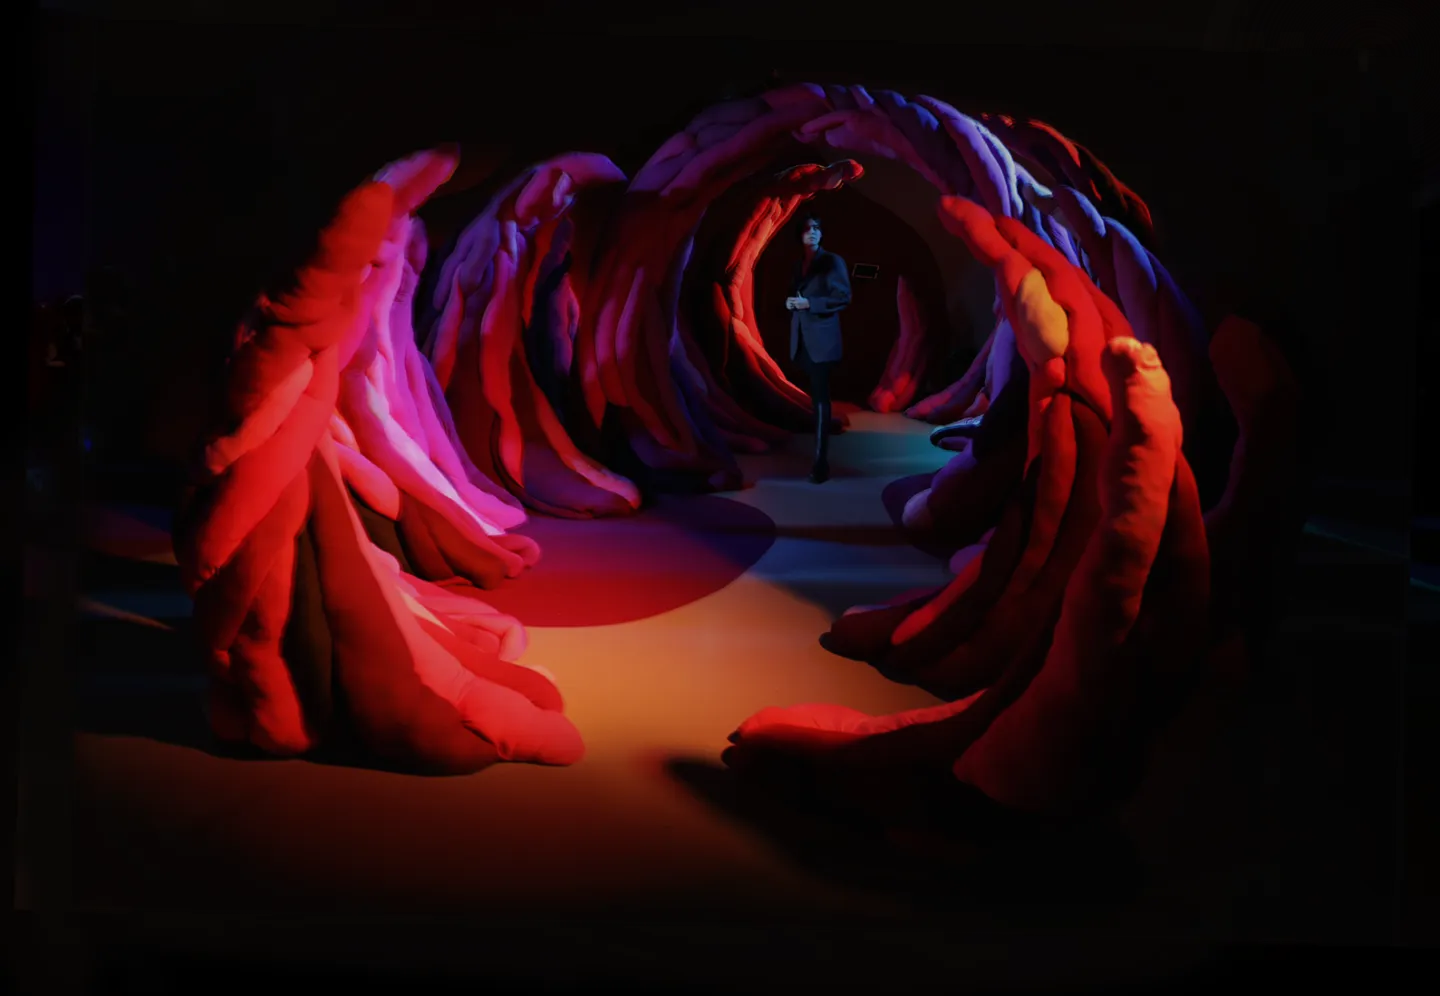
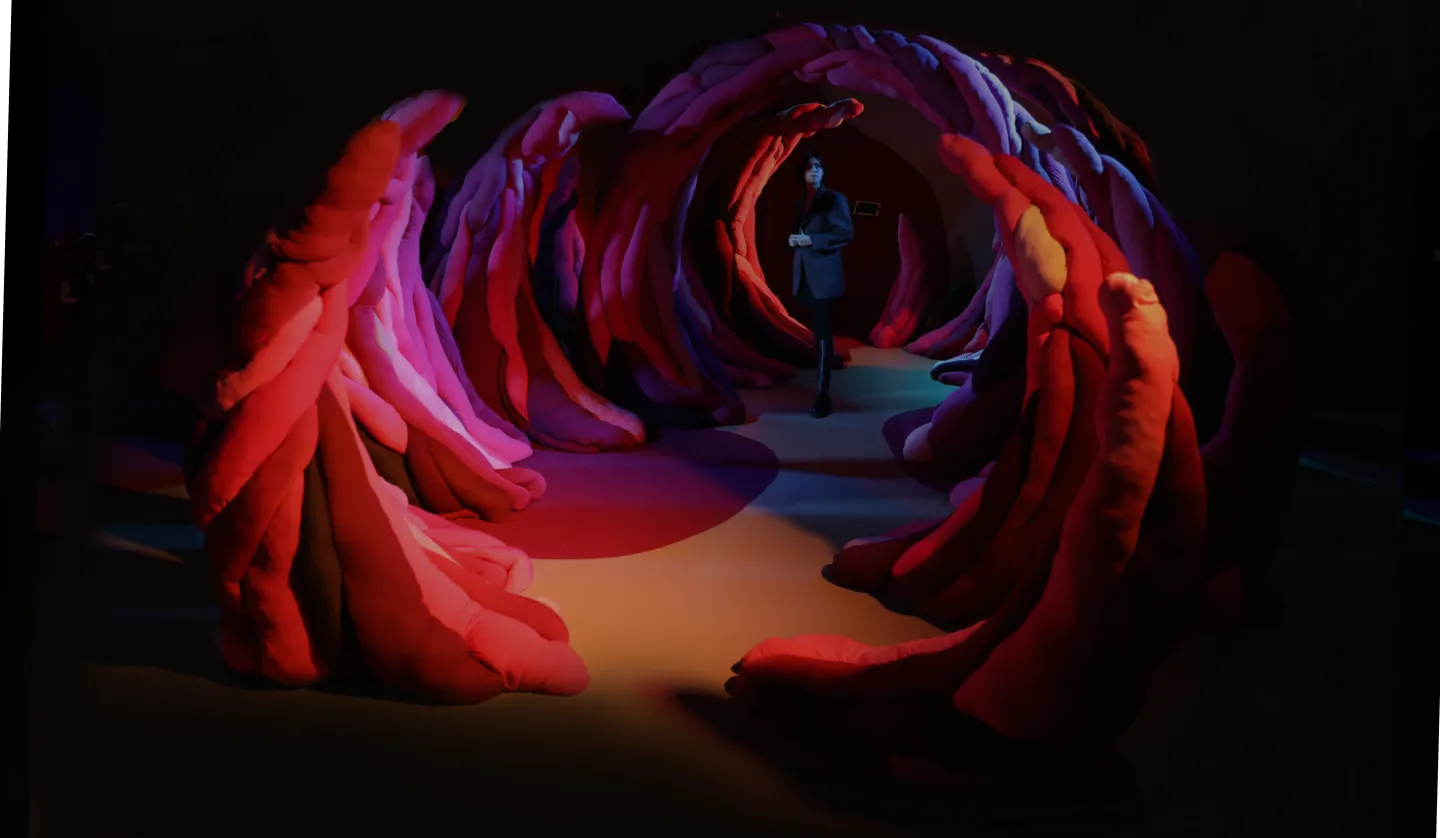
fix garden city installation image

Changed region(s): [[0.0625, 0.031, 0.875, 0.9308], [0.0, 0.0, 0.0312, 0.3413]]

diff --git a/src/Pages/GardenCity/GardenCity.tsx b/src/Pages/GardenCity/GardenCity.tsx
@@ -1,9 +1,11 @@
 import {Authors} from "../../Components/Authors/Authors.tsx"
+import {ContainerFullWidth} from "../../Components/ContainerFullWidth/ContainerFullWidth.tsx"
 import {Footer} from "../../Components/Footer/Footer.tsx"
 import {Gallery} from "../../Components/Gallery/Gallery.tsx"
+import {Image} from "../../Components/Image/Image.tsx"
 import {ProjectTitle} from "../../Components/ProjectTitle/ProjectTitle.tsx"
 import {ProjectPreview} from "../../Modules/ProjectPreview/ProjectPreview.tsx"
-import { VideoBackground } from "../../Modules/VideoBackground/VideoBackground.tsx"
+import {VideoBackground} from "../../Modules/VideoBackground/VideoBackground.tsx"
 import {useIsMobile} from "../../utils/useIsMobile.ts"
 import {
   imagesBasePath,
@@ -70,14 +72,16 @@ export function Component() {
         Ключевое свойство «Полихромика» — масштабируемость. Объект может расти от камерного до гигантского, становясь прототипом тотальной свето-цветовой инсталляции. В логике «Города Сада» он работает как линза, фокусирующая тему телесного и цифрового восприятия: если «Живот Сада» предлагает тактильный вход в виртуальность, то «Полихромик» исследует чистую оптику, превращая физику света в инструмент изменения реальности.
       </div>
 
-      <ProjectPreview
-        ImageSrc={`${imagesBasePath}/Installation-1440.webp`}
-        ImageSrcSet={`
-          ${imagesBasePath}/Installation-900.webp 900w,
-          ${imagesBasePath}/Installation-1440.webp 1440w,
-          ${imagesBasePath}/Installation-1920.webp 1920w
-        `}
-      />
+      <ContainerFullWidth className={styles.imageWrapper}>
+        <Image
+          Src={`${imagesBasePath}/Installation-1440.webp`}
+          SrcSet={`
+            ${imagesBasePath}/Installation-900.webp 900w,
+            ${imagesBasePath}/Installation-1440.webp 1440w,
+            ${imagesBasePath}/Installation-1920.webp 1920w
+          `}
+        />
+      </ContainerFullWidth>
       <div>
         ТОТАЛЬНАЯ ИНСТАЛЛЯЦИЯ «ЖИВОТ САДА»
         <br />

diff --git a/src/Pages/GardenCity/styles.module.scss b/src/Pages/GardenCity/styles.module.scss
@@ -20,25 +20,17 @@
   height: calc(100vw * 0.563)
 }
 
-.descriptionImage {
-  width: 100%;
-  height: 100%;
-  aspect-ratio: 1 / 1;
-  object-fit: cover;
-  margin-bottom: 65px;
+.imageWrapper {
+  position: relative;
 
-  @media (min-width: 600px) {
-    width: auto;
-    height: 490px;
-  }
-  @media (min-width: 1024px) {
-    margin-bottom: unset;
-  }
-  @media (min-width: 1280px) {
-    height: 570px;
-  }
-  @media (min-width: 1920px) {
-    height: 632px;
+  &::after {
+    position: absolute;
+    top: 0;
+    left: 0;
+    content: '';
+    width: 100%;
+    height: 100%;
+    background: linear-gradient(black, transparent, transparent, transparent, transparent, black);
   }
 }
 
